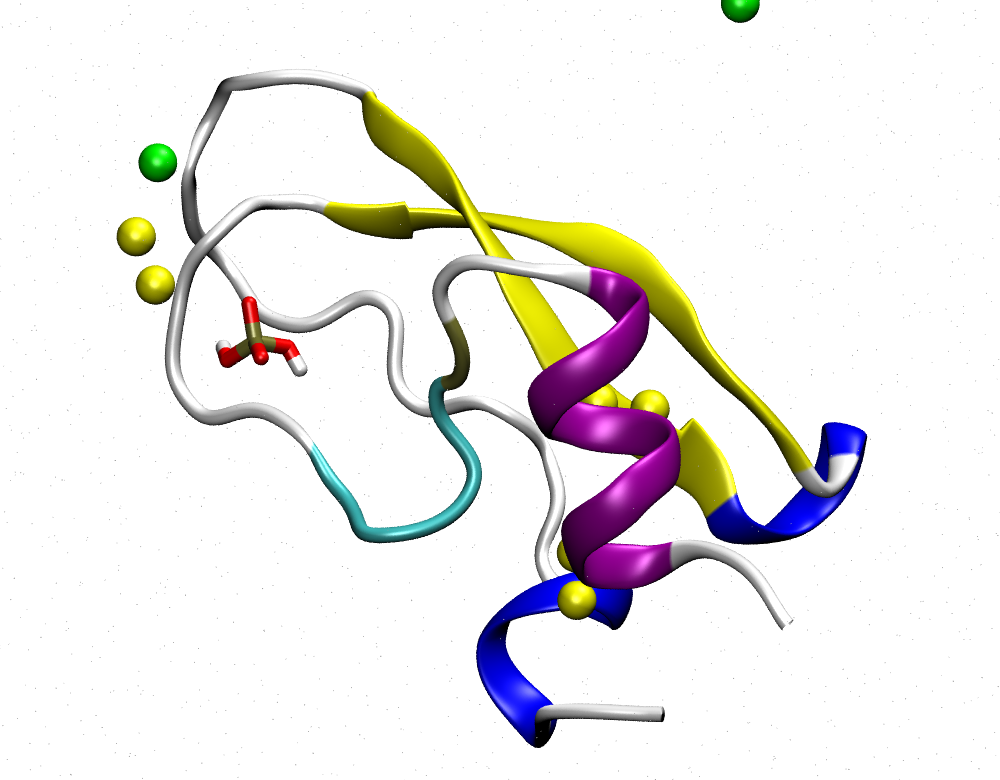
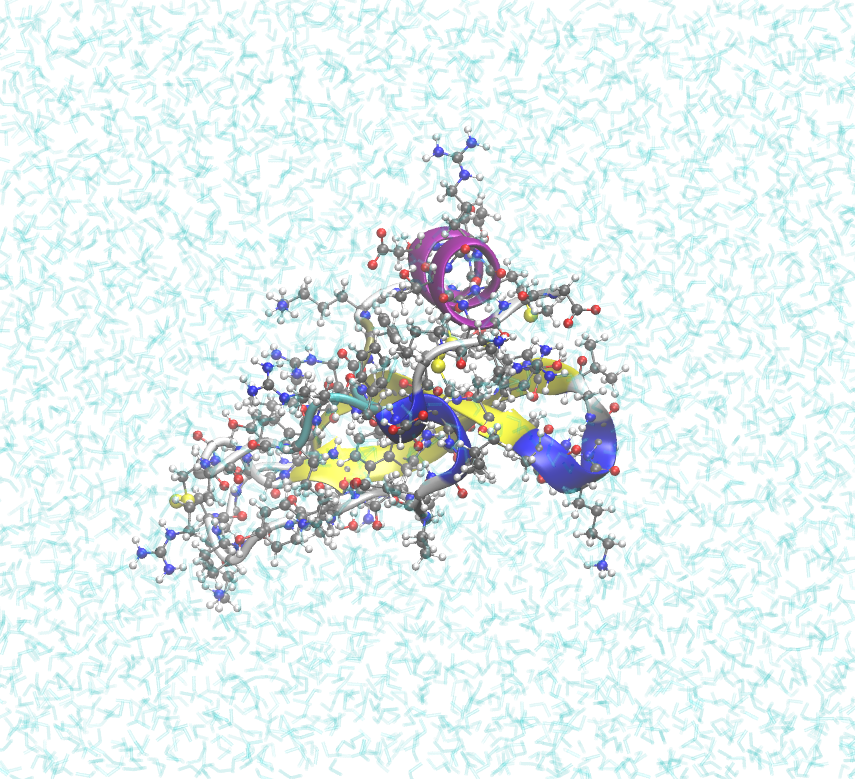
docs: give the whole BPTI series a rendering in one style
ex01's figure is now the render from my_6pti.vmd, and examples 2-4 get the
same treatment, transcribed from that state file: solvent and ions as thin
lines in Glass1, protein as all-atom CPK, protein again as a
secondary-structure NewCartoon, orthographic with Exp2 depth cue on white,
and the same viewpoint matrix for all four.

Transcription was verified rather than assumed: re-rendering ex01 from the
transcribed script reproduces the reference image, once cropped to the
same content box (the reference is cropped to the water box, which is why
it appears 1.5x closer than a raw render at that view).

Two things in the state file do nothing, and are not carried over:

  - clip plane 0 is enabled on the solvent rep at y = -41.25, but the
    system spans y = [-20.6, 30.2], so it clips nothing. The see-through
    effect comes from Glass1 on thin lines.
  - the selection `same residue as y>-50` likewise matches every solvent
    atom (13,241 of 13,241).

Captions state what each build actually contains, counted from its PSF:
ex02 carries 0.154 M NaCl as 13 Na+ and 19 Cl- where ex01 has five
chlorides; ex03 has two S-S bonds where the others have three; ex04 has
four, from the pair mutated in at 11 and 34. The disulfide counts confirm
each YAML's stated intent.

Examples 2-4 are rendered as built rather than superposed on ex01. Fitting
them (CA RMSD 2.6-3.8 A -> 0.6-0.8 A) does align the protein, but rotates
[…]

diff --git a/docs/source/examples/01/bpti1.rst b/docs/source/examples/01/bpti1.rst
@@ -17,12 +17,12 @@ You can check the :ref:`config_ref` for a complete reference to Pestifer config 
     :width: 70%
     :align: center
 
-    The system this pipeline produces.  BPTI is drawn as a cartoon coloured by secondary
-    structure, with the sulfurs of its three disulfides as yellow spheres.  The dihydrogen
-    phosphate (``H2PO4``) carried over from the 6PTI entry is in licorice at the left --
-    :ref:`Example 2 <example bpti2>` is the same build with that ion excluded.  The five green
-    spheres are the chlorides added to neutralize the protein's net charge, and water is drawn
-    as faint points so it does not obscure the solute.
+    The system this pipeline produces: BPTI as a secondary-structure cartoon with every protein
+    atom drawn as well, sitting in the 4,412-water box that ``density_equilibrate`` settled.
+    Water and the five neutralizing chlorides are fine glassy lines, so the cell reads as filled
+    without hiding the solute.  This build keeps all three of BPTI's native disulfides -- their
+    sulfurs are the yellow atoms -- and retains the dihydrogen phosphate from the 6PTI entry.
+    Examples 2 to 4 vary exactly those two things.
 
 There are three ways to launch this build.  **They are alternatives — pick one, and
 run it in a clean directory.**  All three run the same configuration; they differ only

diff --git a/docs/source/examples/03/bpti3.rst b/docs/source/examples/03/bpti3.rst
@@ -10,6 +10,15 @@ Building on Example 2, here we show how to introduce point mutations and how to 
 
 .. task-table:: ../../../../pestifer/resources/examples/03/inputs/bpti3.yaml
 
+.. figure:: 6pti-solvated.png
+    :width: 70%
+    :align: center
+
+    The Example 3 build, in the same style and viewpoint as :ref:`Example 1 <example bpti1>`.
+    The mutations are in place and one of the three native disulfides has been reduced, so this
+    system has **two** S-S bonds where the others have three; the freed cysteine sulfurs are the
+    yellow atoms no longer paired.
+
 
 First, note the ``mutations`` list.  Each element specifies one particular point mutation using a *shortcode*.  There are two allowable shortcodes for a point mutation:
 

diff --git a/docs/source/examples/02/bpti2.rst b/docs/source/examples/02/bpti2.rst
@@ -10,6 +10,15 @@ This is the same as Example 1, except we delete the phosphate ion.
 
 .. task-table:: ../../../../pestifer/resources/examples/02/inputs/bpti2.yaml
 
+.. figure:: 6pti-solvated.png
+    :width: 70%
+    :align: center
+
+    The Example 2 build, in the same style and viewpoint as :ref:`Example 1 <example bpti1>`.
+    The phosphate is gone, and the box carries 0.154 M NaCl -- 13 sodium and 19 chloride ions
+    among 4,385 waters -- where Example 1 had only the five chlorides needed to neutralize the
+    protein.  All three native disulfides are intact.
+
 
 Note the ``exclude`` subdirective under ``source``.  You remember how you can learn about it?  Using ``config-help``: 
 

diff --git a/docs/source/examples/04/bpti4.rst b/docs/source/examples/04/bpti4.rst
@@ -10,6 +10,14 @@ Using the ``mods`` subdirective, one can introduce new disulfides into an existi
 
 .. task-table:: ../../../../pestifer/resources/examples/04/inputs/bpti4.yaml
 
+.. figure:: 6pti-solvated.png
+    :width: 70%
+    :align: center
+
+    The Example 4 build, in the same style and viewpoint as :ref:`Example 1 <example bpti1>`.
+    Residues 11 and 34 have been mutated to cysteine and cross-linked, so this system carries
+    eight cysteines and **four** S-S bonds against the native three.
+
 
 Note that this required first mutating the residues at positions 11 and 34 to cysteines, and *then* introducing the disulfide mod.
 
